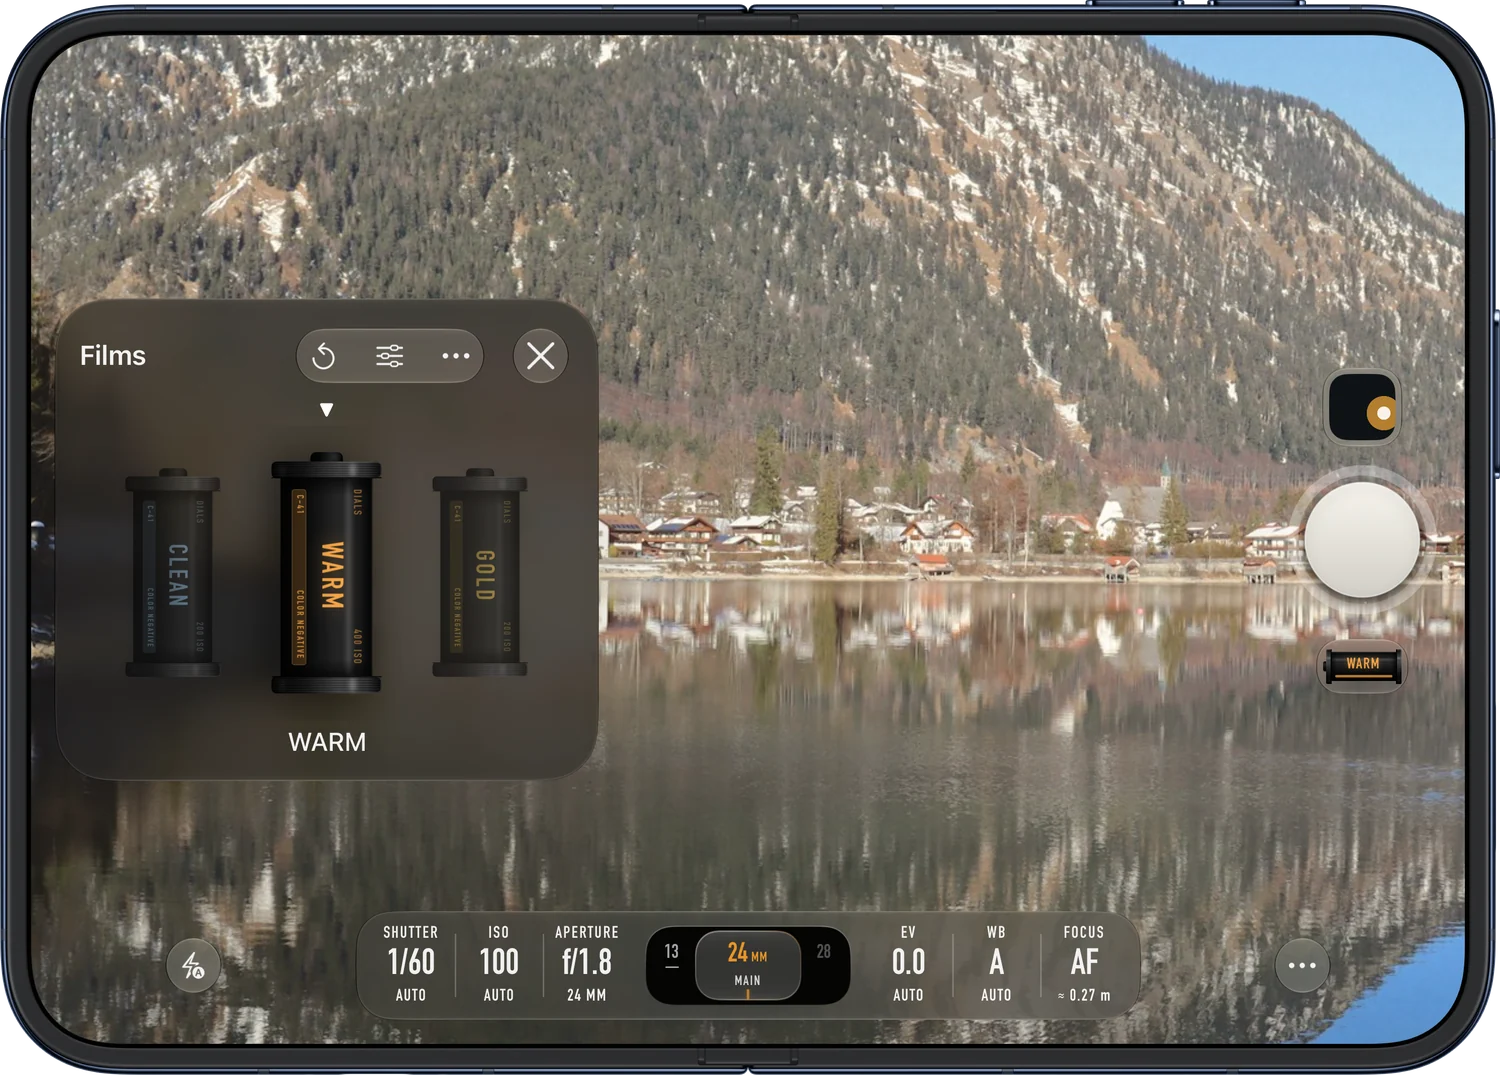
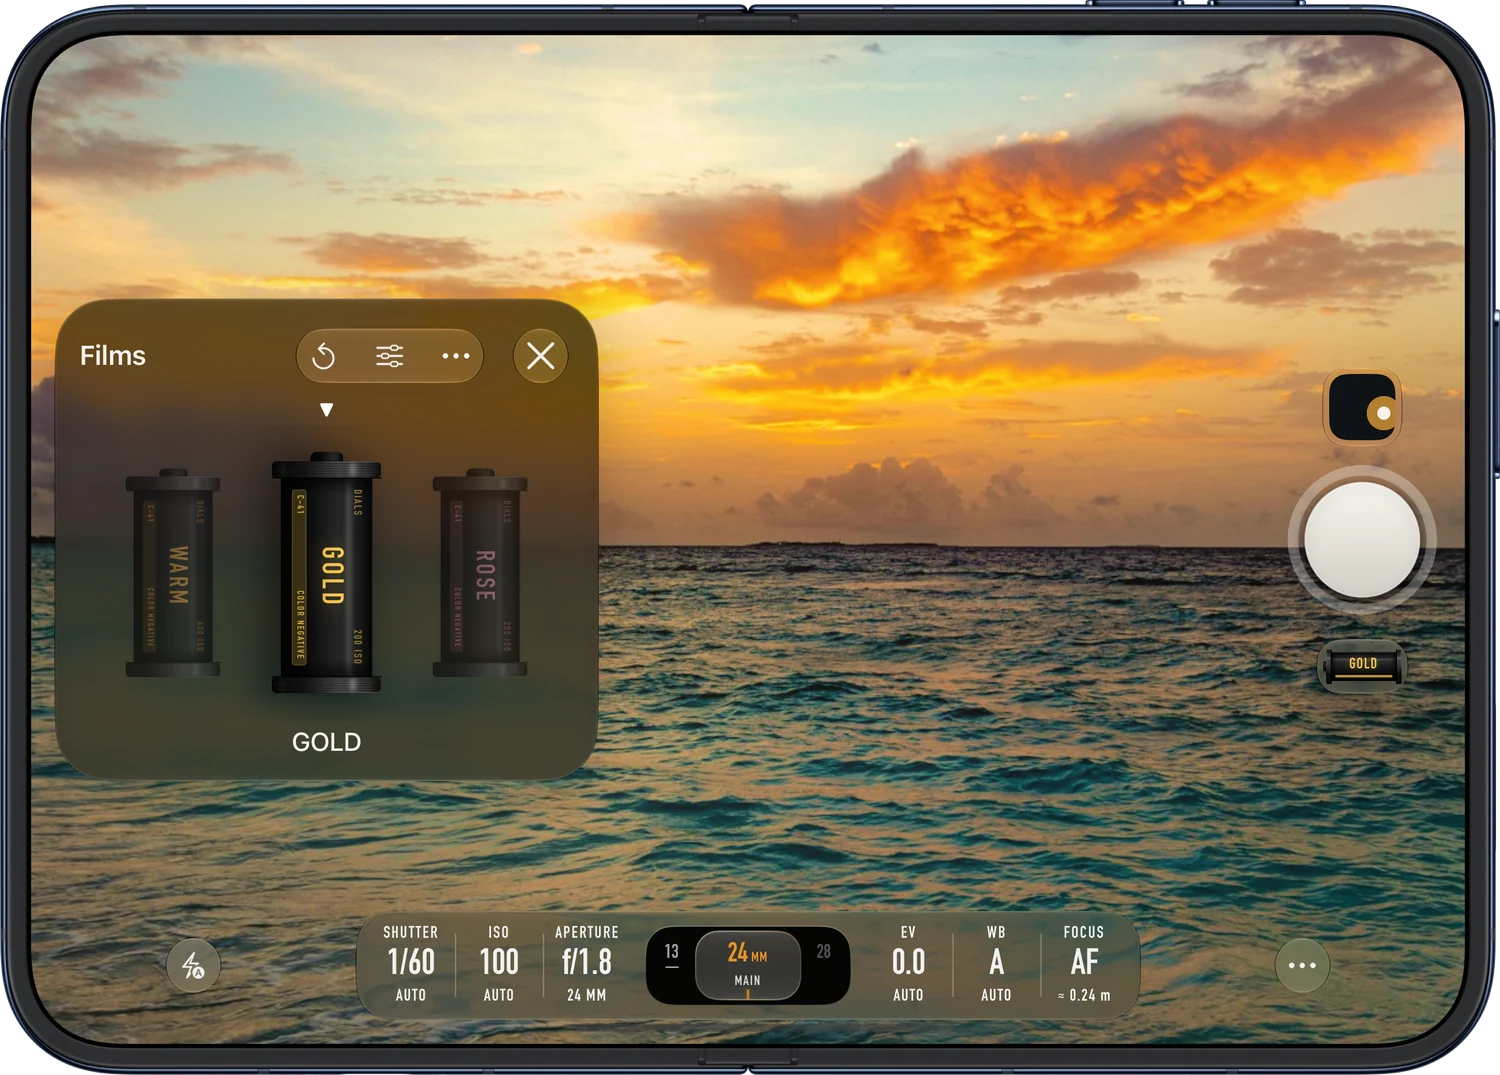
Show every Dials device on the same sunset scene (#23)
- Open iPhone Duo recaptured on the Maldives sunset reference photo, so the
  devices section now sits on that same scene behind all three screens.
- Editor section back on black, so photo backgrounds keep alternating.
- Legal notice: the Walchensee credit is removed, as that photo is no longer
  shown anywhere. Privacy and support pages are unchanged.

diff --git a/dials/fr/index.html b/dials/fr/index.html
@@ -22,12 +22,11 @@
 <div class="band"><img class="bg" src="/dials/assets/img/ref-indoor-1000.webp" srcset="/dials/assets/img/ref-indoor-1000.webp 1000w, /dials/assets/img/ref-indoor-2000.webp 2000w" sizes="100vw" alt="" loading="lazy" decoding="async"><img class="shot" src="/dials/assets/img/dev/dial-shutter-720.webp" srcset="/dials/assets/img/dev/dial-shutter-360.webp 360w, /dials/assets/img/dev/dial-shutter-720.webp 720w" sizes="(min-width:1100px) 290px, min(62vw, 300px)" width="720" height="1484" alt="La molette de vitesse ouverte dans Dials, graduations et « A » rouge." loading="lazy" decoding="async"><span class="ref">Photo de référence</span></div>
 <section class="v1" id="film"><h2>Choisissez votre pellicule.</h2><p class="say">Dix rendus de film, plus NATIVE, en direct dans le viseur. Vous jugez l’image pendant que vous cadrez.</p><figure class="device proof"><img class="shot" src="/dials/assets/img/dev/film-gold-720.webp" srcset="/dials/assets/img/dev/film-gold-360.webp 360w, /dials/assets/img/dev/film-gold-720.webp 720w" sizes="(min-width:1100px) 290px, min(62vw, 300px)" width="720" height="1484" alt="Le choix de pellicule dans Dials : WARM, GOLD et ROSE, GOLD sélectionnée." loading="lazy" decoding="async"><figcaption class="cap">Viseur&nbsp;: photo de référence</figcaption></figure></section>
 <section class="v1" id="result"><h2>Le résultat, dans la galerie.</h2><p class="say">Chaque pellicule a sa couleur et son contraste. Dials l’applique au moment de la prise, sur l’iPhone.</p><figure class="device proof"><img class="shot" src="/dials/assets/img/dev/gallery-720.webp" srcset="/dials/assets/img/dev/gallery-360.webp 360w, /dials/assets/img/dev/gallery-720.webp 720w" sizes="(min-width:1100px) 290px, min(62vw, 300px)" width="720" height="1484" alt="La galerie de Dials sur iPhone, photos en vignettes." loading="lazy" decoding="async"><figcaption class="cap">Galerie&nbsp;: photos de référence, rendus appliqués par Dials</figcaption></figure></section>
-<section class="v1" id="edit"><h2>Créez votre pellicule.</h2><p class="say">Réglez la lumière, la couleur et le détail, puis jugez votre pellicule sur les photos de référence.</p></section>
-<div class="band"><img class="bg" src="/dials/assets/img/ref-night-1000.webp" srcset="/dials/assets/img/ref-night-1000.webp 1000w, /dials/assets/img/ref-night-2000.webp 2000w" sizes="100vw" alt="" loading="lazy" decoding="async"><img class="shot" src="/dials/assets/img/dev/editor-mono-night-720.webp" srcset="/dials/assets/img/dev/editor-mono-night-360.webp 360w, /dials/assets/img/dev/editor-mono-night-720.webp 720w" sizes="(min-width:1100px) 290px, min(62vw, 300px)" width="720" height="1484" alt="L’éditeur de pellicule de Dials : la rue de nuit en rendu MONO, réglages de lumière." loading="lazy" decoding="async"><span class="ref">Photo de référence</span></div>
-<section class="v1 last" id="devices"><h2>Sur iPhone et iPhone Duo.</h2><p class="say">Dials s’adapte à l’iPhone Duo, plié comme ouvert.</p>
-<div class="family"><img class="do" src="/dials/assets/img/dev/hero-open-760.webp" width="760" height="545" alt="Dials sur iPhone Duo ouvert : viseur et pellicules côte à côte." loading="lazy">
-<div class="row"><img class="ip" src="/dials/assets/img/dev/hero-iphone-360.webp" width="360" height="742" alt="Dials sur iPhone." loading="lazy"><img class="dc" src="/dials/assets/img/dev/hero-closed-380.webp" width="380" height="530" alt="Dials sur iPhone Duo plié." loading="lazy"></div></div>
-<p class="compat">iPhone, iOS&nbsp;18 ou plus. Certaines fonctions dépendent de l’iPhone.<br>Interface en anglais.</p></section>
+<section class="v1" id="edit"><h2>Créez votre pellicule.</h2><p class="say">Réglez la lumière, la couleur et le détail, puis jugez votre pellicule sur les photos de référence.</p><figure class="device proof"><img class="shot" src="/dials/assets/img/dev/editor-mono-night-720.webp" srcset="/dials/assets/img/dev/editor-mono-night-360.webp 360w, /dials/assets/img/dev/editor-mono-night-720.webp 720w" sizes="(min-width:1100px) 290px, min(62vw, 300px)" width="720" height="1484" alt="L’éditeur de pellicule de Dials : la rue de nuit en rendu MONO, réglages de lumière." loading="lazy" decoding="async"></figure></section>
+<section class="v1" id="devices"><h2>Sur iPhone et iPhone Duo.</h2><p class="say">Dials s’adapte à l’iPhone Duo, plié comme ouvert.</p></section>
+<div class="band"><img class="bg" src="/dials/assets/img/ref-sunset-1000.webp" srcset="/dials/assets/img/ref-sunset-1000.webp 1000w, /dials/assets/img/ref-sunset-2000.webp 2000w" sizes="100vw" alt="" loading="lazy" decoding="async"><div class="family"><img class="do" src="/dials/assets/img/dev/hero-open-760.webp" width="760" height="545" alt="Dials sur iPhone Duo ouvert : viseur et pellicules côte à côte." loading="lazy">
+<div class="row"><img class="ip" src="/dials/assets/img/dev/hero-iphone-360.webp" width="360" height="742" alt="Dials sur iPhone." loading="lazy"><img class="dc" src="/dials/assets/img/dev/hero-closed-380.webp" width="380" height="530" alt="Dials sur iPhone Duo plié." loading="lazy"></div></div><span class="ref">Photo de référence</span></div>
+<p class="compat compat-end">iPhone, iOS&nbsp;18 ou plus. Certaines fonctions dépendent de l’iPhone.<br>Interface en anglais.</p>
 <section class="end"><img class="big" src="/dials/assets/img/icon-512.png" alt="" width="512" height="512" loading="lazy"><h2>Dials</h2><p class="soonline">Bientôt sur l’App Store</p><ul class="facts"><li><svg viewBox="0 0 24 24" aria-hidden="true"><path d="M4 7h16v10H4z"/><path d="M4 11h16"/></svg>Achat unique, sans abonnement</li><li><svg viewBox="0 0 24 24" aria-hidden="true"><circle cx="12" cy="8" r="4"/><path d="M4 20c1.5-4 4.5-6 8-6s6.5 2 8 6"/><path d="M3 3l18 18"/></svg>Sans compte</li><li><svg viewBox="0 0 24 24" aria-hidden="true"><rect x="7" y="2.5" width="10" height="19" rx="2.5"/><path d="M11 18.5h2"/></svg>Traitement sur l’appareil</li></ul><a class="priv" href="/dials/privacy/fr/">Politique de confidentialité</a></section>
 </main>
 <footer class="foot"><nav aria-label="Pied de page"><ul><li><a href="/dials/privacy/fr/">Confidentialité</a></li><li><a href="/dials/support/fr/">Assistance</a></li><li><a href="/dials/legal/fr/">Mentions légales</a></li><li><a href="/dials/" lang="en" hreflang="en">English</a></li></ul></nav><div><p>Publié par <a href="/">RET Consulting SRL</a>, Belgique.</p><p>Aussi chez RET Studio : <a href="/dueday/fr/">dueday</a> et <a href="/emdee/fr/">Emdee</a>.</p></div><small>© 2026 RET Consulting SRL. Photos de démonstration issues d’Unsplash ; crédits dans les mentions légales. Apple, le logo Apple, iPhone, iPad, Mac et MacBook Air sont des marques d’Apple Inc., déposées aux États-Unis et dans d’autres pays et régions. App Store est une marque de service d’Apple Inc.</small></footer>

diff --git a/dials/index.html b/dials/index.html
@@ -22,12 +22,11 @@
 <div class="band"><img class="bg" src="/dials/assets/img/ref-indoor-1000.webp" srcset="/dials/assets/img/ref-indoor-1000.webp 1000w, /dials/assets/img/ref-indoor-2000.webp 2000w" sizes="100vw" alt="" loading="lazy" decoding="async"><img class="shot" src="/dials/assets/img/dev/dial-shutter-720.webp" srcset="/dials/assets/img/dev/dial-shutter-360.webp 360w, /dials/assets/img/dev/dial-shutter-720.webp 720w" sizes="(min-width:1100px) 290px, min(62vw, 300px)" width="720" height="1484" alt="The shutter dial open in Dials, with its scale and red “A”." loading="lazy" decoding="async"><span class="ref">Reference photo</span></div>
 <section class="v1" id="film"><h2>Choose your film.</h2><p class="say">Ten film looks, plus NATIVE, live in the viewfinder. You judge the picture as you frame it.</p><figure class="device proof"><img class="shot" src="/dials/assets/img/dev/film-gold-720.webp" srcset="/dials/assets/img/dev/film-gold-360.webp 360w, /dials/assets/img/dev/film-gold-720.webp 720w" sizes="(min-width:1100px) 290px, min(62vw, 300px)" width="720" height="1484" alt="The film picker in Dials: WARM, GOLD and ROSE, with GOLD selected." loading="lazy" decoding="async"><figcaption class="cap">Viewfinder: reference photo</figcaption></figure></section>
 <section class="v1" id="result"><h2>The result, in the gallery.</h2><p class="say">Each film has its own colour and contrast. Dials applies it as you take the photo, on your iPhone.</p><figure class="device proof"><img class="shot" src="/dials/assets/img/dev/gallery-720.webp" srcset="/dials/assets/img/dev/gallery-360.webp 360w, /dials/assets/img/dev/gallery-720.webp 720w" sizes="(min-width:1100px) 290px, min(62vw, 300px)" width="720" height="1484" alt="The Dials gallery on iPhone, photos as thumbnails." loading="lazy" decoding="async"><figcaption class="cap">Gallery: reference photos, looks applied by Dials</figcaption></figure></section>
-<section class="v1" id="edit"><h2>Create your own film.</h2><p class="say">Adjust light, colour and detail, then judge your film on the reference photos.</p></section>
-<div class="band"><img class="bg" src="/dials/assets/img/ref-night-1000.webp" srcset="/dials/assets/img/ref-night-1000.webp 1000w, /dials/assets/img/ref-night-2000.webp 2000w" sizes="100vw" alt="" loading="lazy" decoding="async"><img class="shot" src="/dials/assets/img/dev/editor-mono-night-720.webp" srcset="/dials/assets/img/dev/editor-mono-night-360.webp 360w, /dials/assets/img/dev/editor-mono-night-720.webp 720w" sizes="(min-width:1100px) 290px, min(62vw, 300px)" width="720" height="1484" alt="The Dials film editor: the night street in the MONO look, light settings." loading="lazy" decoding="async"><span class="ref">Reference photo</span></div>
-<section class="v1 last" id="devices"><h2>On iPhone and iPhone Duo.</h2><p class="say">Dials adapts to iPhone Duo, folded or open.</p>
-<div class="family"><img class="do" src="/dials/assets/img/dev/hero-open-760.webp" width="760" height="545" alt="Dials on iPhone Duo, open: viewfinder and films side by side." loading="lazy">
-<div class="row"><img class="ip" src="/dials/assets/img/dev/hero-iphone-360.webp" width="360" height="742" alt="Dials on iPhone." loading="lazy"><img class="dc" src="/dials/assets/img/dev/hero-closed-380.webp" width="380" height="530" alt="Dials on iPhone Duo, folded." loading="lazy"></div></div>
-<p class="compat">iPhone, iOS&nbsp;18 or later. Some features depend on your iPhone.</p></section>
+<section class="v1" id="edit"><h2>Create your own film.</h2><p class="say">Adjust light, colour and detail, then judge your film on the reference photos.</p><figure class="device proof"><img class="shot" src="/dials/assets/img/dev/editor-mono-night-720.webp" srcset="/dials/assets/img/dev/editor-mono-night-360.webp 360w, /dials/assets/img/dev/editor-mono-night-720.webp 720w" sizes="(min-width:1100px) 290px, min(62vw, 300px)" width="720" height="1484" alt="The Dials film editor: the night street in the MONO look, light settings." loading="lazy" decoding="async"></figure></section>
+<section class="v1" id="devices"><h2>On iPhone and iPhone Duo.</h2><p class="say">Dials adapts to iPhone Duo, folded or open.</p></section>
+<div class="band"><img class="bg" src="/dials/assets/img/ref-sunset-1000.webp" srcset="/dials/assets/img/ref-sunset-1000.webp 1000w, /dials/assets/img/ref-sunset-2000.webp 2000w" sizes="100vw" alt="" loading="lazy" decoding="async"><div class="family"><img class="do" src="/dials/assets/img/dev/hero-open-760.webp" width="760" height="545" alt="Dials on iPhone Duo, open: viewfinder and films side by side." loading="lazy">
+<div class="row"><img class="ip" src="/dials/assets/img/dev/hero-iphone-360.webp" width="360" height="742" alt="Dials on iPhone." loading="lazy"><img class="dc" src="/dials/assets/img/dev/hero-closed-380.webp" width="380" height="530" alt="Dials on iPhone Duo, folded." loading="lazy"></div></div><span class="ref">Reference photo</span></div>
+<p class="compat compat-end">iPhone, iOS&nbsp;18 or later. Some features depend on your iPhone.</p>
 <section class="end"><img class="big" src="/dials/assets/img/icon-512.png" alt="" width="512" height="512" loading="lazy"><h2>Dials</h2><p class="soonline">Coming soon to the App Store</p><ul class="facts"><li><svg viewBox="0 0 24 24" aria-hidden="true"><path d="M4 7h16v10H4z"/><path d="M4 11h16"/></svg>One-time purchase, no subscription</li><li><svg viewBox="0 0 24 24" aria-hidden="true"><circle cx="12" cy="8" r="4"/><path d="M4 20c1.5-4 4.5-6 8-6s6.5 2 8 6"/><path d="M3 3l18 18"/></svg>No account</li><li><svg viewBox="0 0 24 24" aria-hidden="true"><rect x="7" y="2.5" width="10" height="19" rx="2.5"/><path d="M11 18.5h2"/></svg>Processed on the device</li></ul><a class="priv" href="/dials/privacy/">Privacy policy</a></section>
 </main>
 <footer class="foot"><nav aria-label="Footer"><ul><li><a href="/dials/privacy/">Privacy policy</a></li><li><a href="/dials/support/">Support</a></li><li><a href="/dials/legal/">Legal notice</a></li><li><a href="/dials/fr/" lang="fr" hreflang="fr">Français</a></li></ul></nav><div><p>Published by <a href="/">RET Consulting SRL</a>, Belgium.</p><p>More from RET Studio: <a href="/dueday/">dueday</a> and <a href="/emdee/">Emdee</a>.</p></div><small>© 2026 RET Consulting SRL. Demonstration photographs from Unsplash; credits in the legal notice. Apple, the Apple logo, iPhone, iPad, Mac and MacBook Air are trademarks of Apple Inc., registered in the U.S. and other countries and regions. App Store is a service mark of Apple Inc.</small></footer>

diff --git a/dials/legal/fr/index.html b/dials/legal/fr/index.html
@@ -47,7 +47,6 @@
 <p>Les écrans sont des captures natives de Dials, avec des photos de démonstration dans le viseur. Aucune image de ce site n’est présentée comme prise avec Dials. Les cadres d’appareils sont des ressources Apple (Apple Design Resources), utilisées uniquement pour montrer l’application. Ils ne peuvent être ni extraits ni réutilisés.</p>
 <ul class="facts">
 <li><a href="https://unsplash.com/photos/8cOib7pidak" rel="noopener">Lumière de fenêtre</a>, par Mink Mingle</li>
-<li><a href="https://unsplash.com/photos/hECLljC7Wm8" rel="noopener">Lac de montagne, Walchensee</a>, par Cadu de Castro Alves</li>
 <li><a href="https://unsplash.com/photos/sWkP3CeoCxk" rel="noopener">Coucher de soleil sur la mer, Maldives</a>, par Kirill Petropavlov</li>
 <li><a href="https://unsplash.com/photos/BZQ5z4uzgLo" rel="noopener">Rue de nuit, Tirana</a>, par Denis Ismailaj</li>
 <li><a href="https://unsplash.com/photos/sL8ddFZ05Bw" rel="noopener">Falaise au bord de la mer</a>, par Roman Kirienko</li>

diff --git a/dials/legal/index.html b/dials/legal/index.html
@@ -47,7 +47,6 @@
 <p>The screens are native captures of Dials, with demonstration photographs in the viewfinder. No picture on this site is presented as taken with Dials. The device frames are Apple product bezels (Apple Design Resources), used only to show the app. They may not be extracted or reused.</p>
 <ul class="facts">
 <li><a href="https://unsplash.com/photos/8cOib7pidak" rel="noopener">Window light</a>, by Mink Mingle</li>
-<li><a href="https://unsplash.com/photos/hECLljC7Wm8" rel="noopener">Alpine lake, Walchensee</a>, by Cadu de Castro Alves</li>
 <li><a href="https://unsplash.com/photos/sWkP3CeoCxk" rel="noopener">Sunset over the sea, Maldives</a>, by Kirill Petropavlov</li>
 <li><a href="https://unsplash.com/photos/BZQ5z4uzgLo" rel="noopener">Night street, Tirana</a>, by Denis Ismailaj</li>
 <li><a href="https://unsplash.com/photos/sL8ddFZ05Bw" rel="noopener">Sea cliff</a>, by Roman Kirienko</li>

diff --git a/dials/assets/dials.css b/dials/assets/dials.css
@@ -91,6 +91,8 @@ footer nav a:hover{text-decoration:underline}
 .v1.last{padding-bottom:112px}.v1 .proof{margin-top:28px}
 .foot ul{list-style:none;display:flex;flex-wrap:wrap;gap:4px 20px}.foot ul a{color:var(--ink-2);text-decoration:none;min-height:44px;display:inline-flex;align-items:center}
 .foot ul a:hover{text-decoration:underline}.foot small{font-size:12px;line-height:1.5}
+.band .family{position:relative}
+.compat-end{text-align:center;padding:24px 24px 112px;margin:0 auto}
 .doc{max-width:720px;margin:0 auto;padding:64px 24px 96px}
 .doc-head h1{font-size:clamp(34px,6vw,52px);line-height:1.06;letter-spacing:-.03em}
 .doc-head p{color:var(--ink-3);font-size:14px;margin-top:12px}
